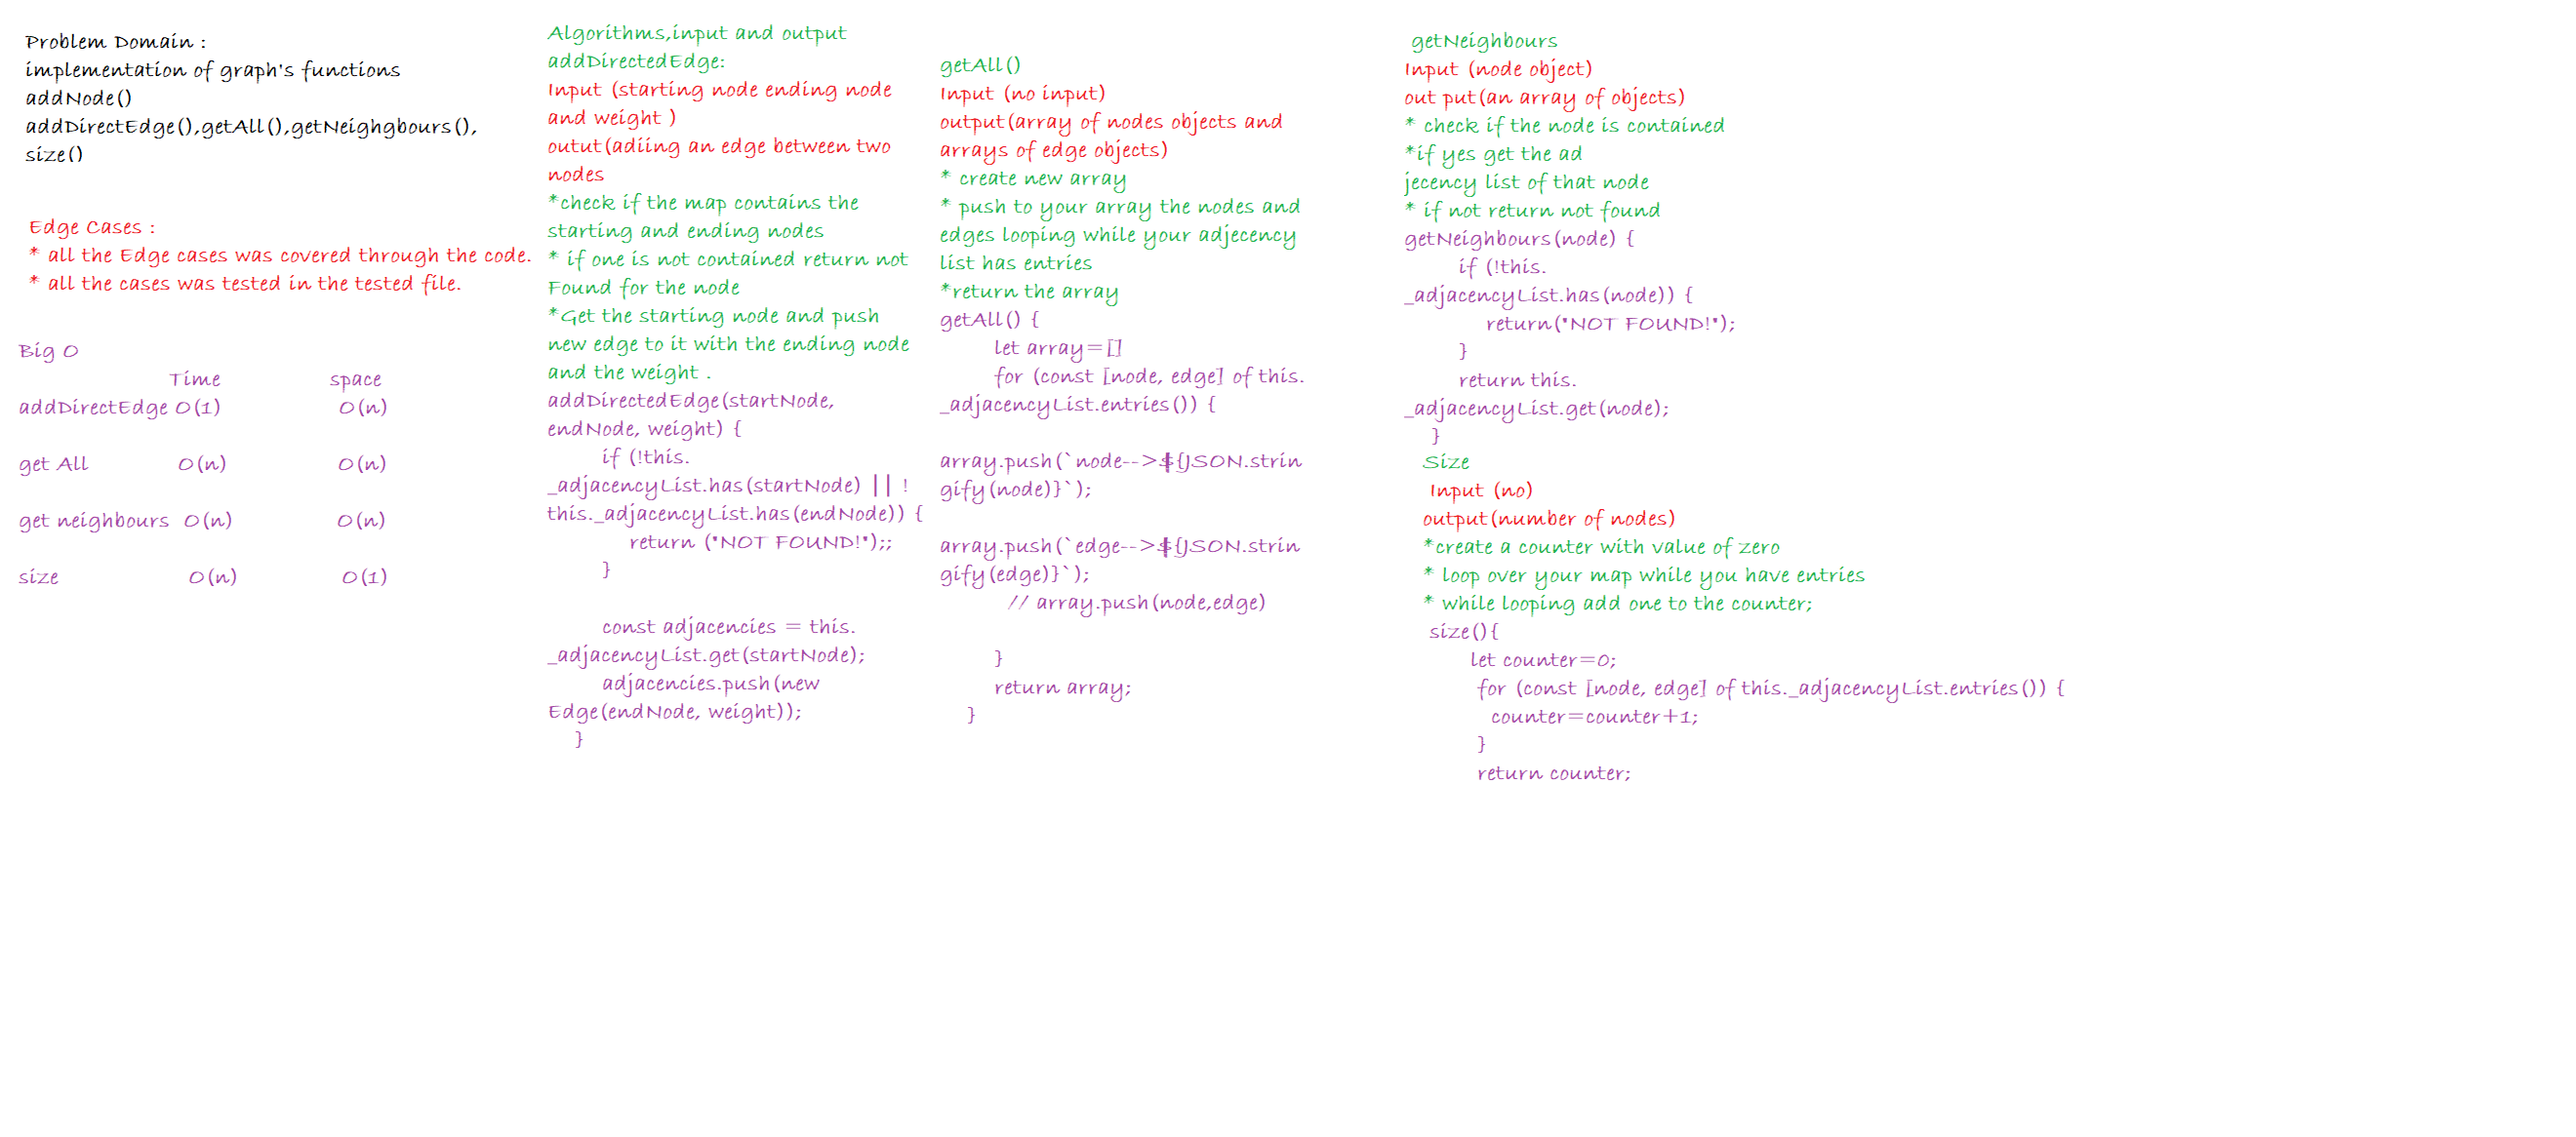
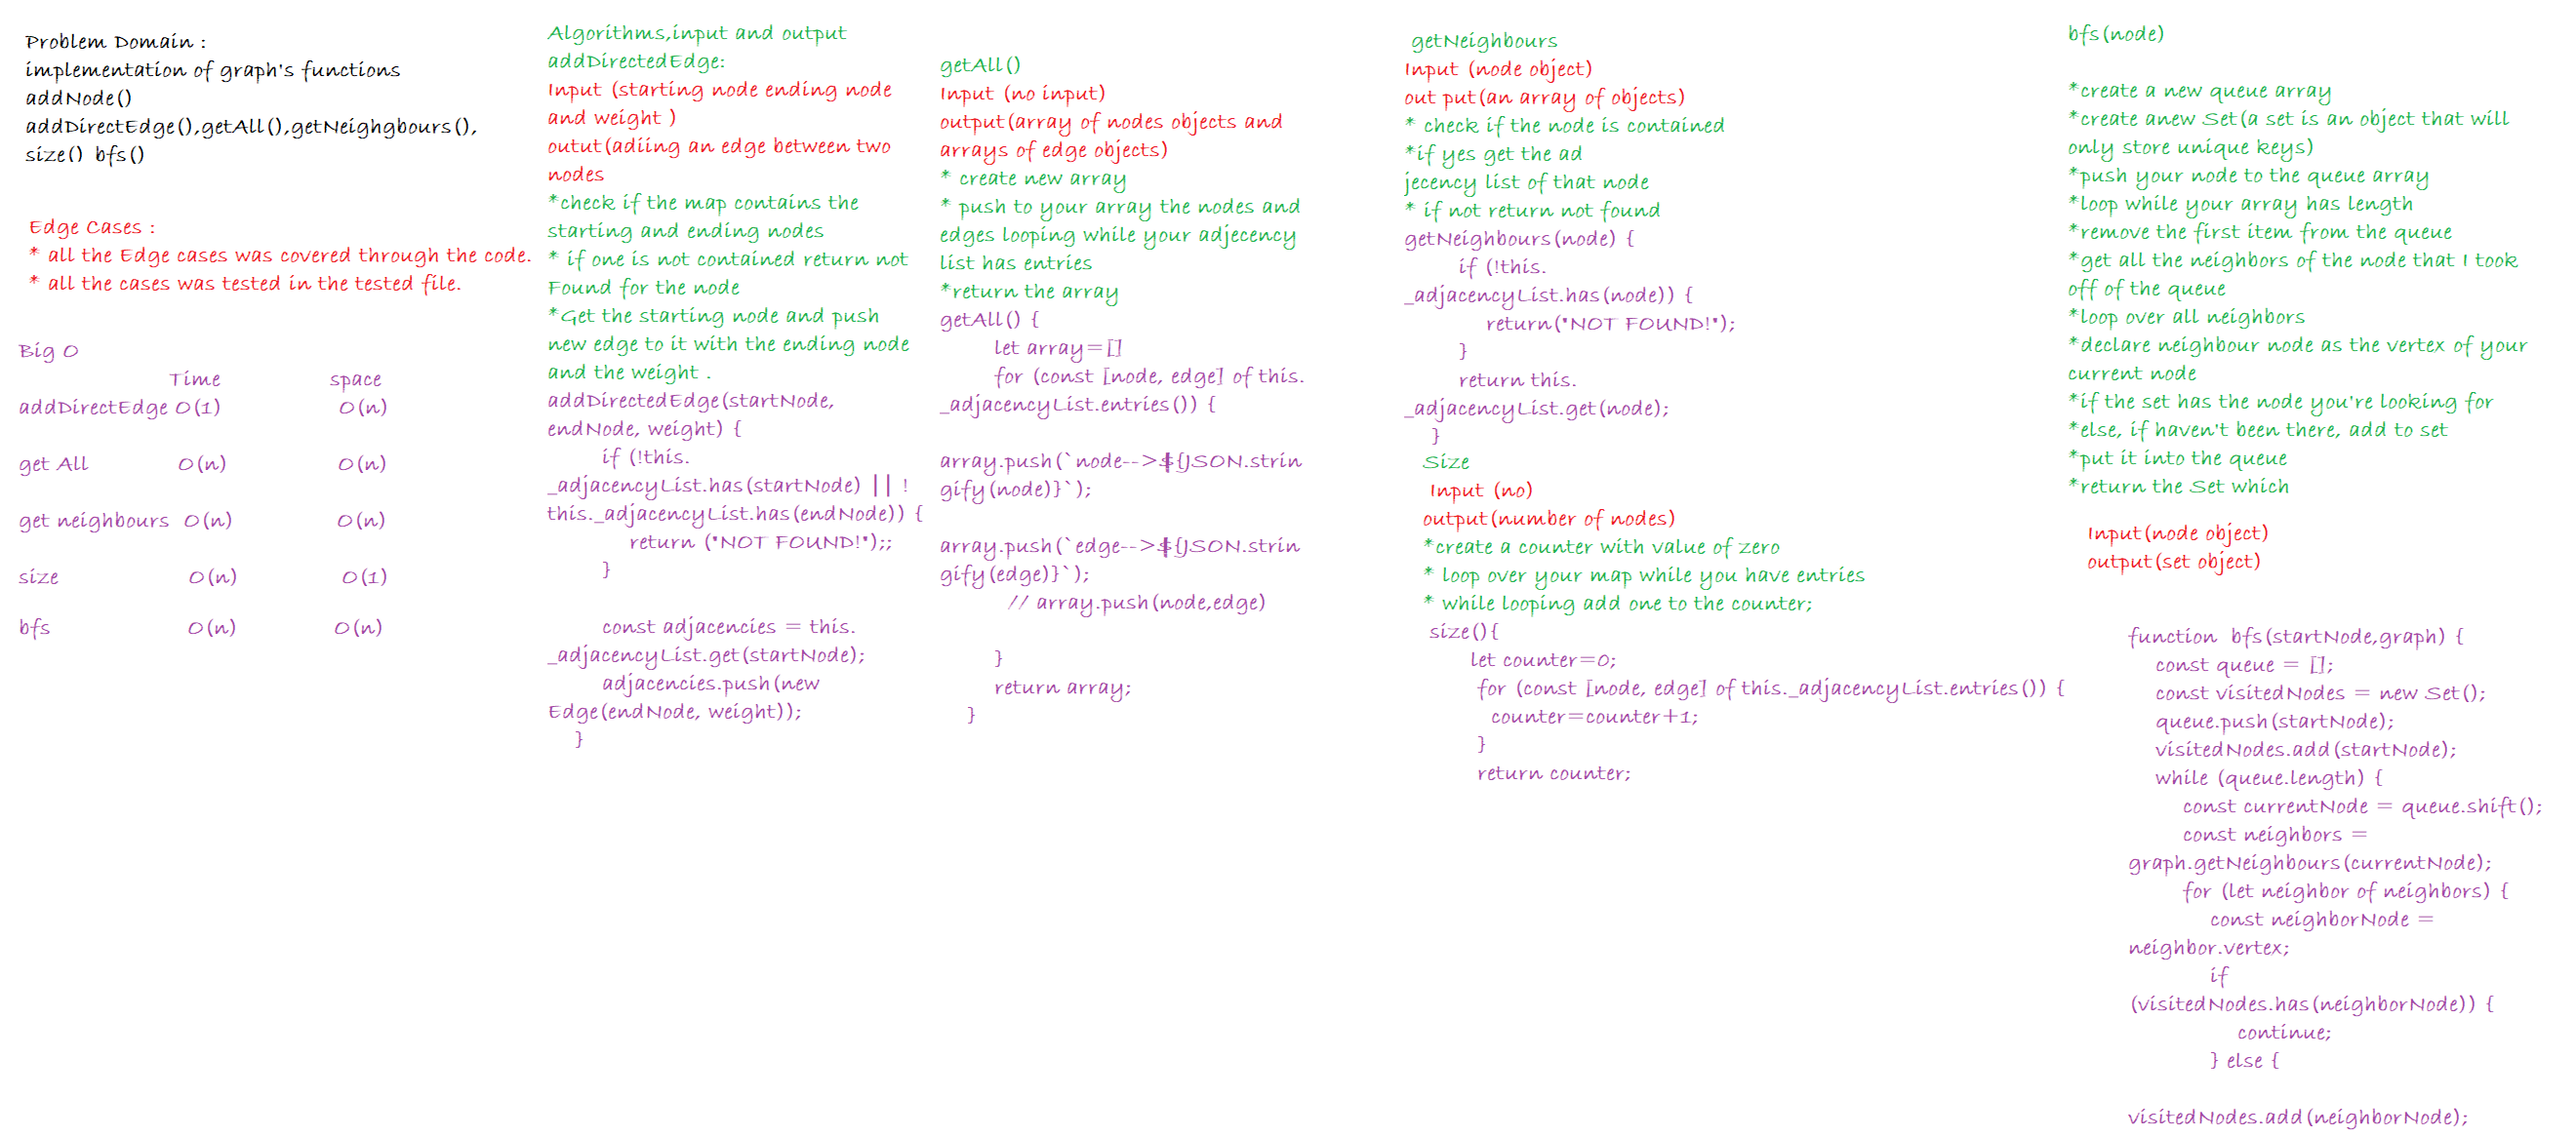
chal 36

diff --git a/__tests__/graph.test.js b/__tests__/graph.test.js
@@ -1,5 +1,5 @@
-const [Node,Graph]=require('../Data-structure/graph/graph');
-
+const [Node, Graph] = require('../Data-structure/graph/graph');
+const bfs = require('../Data-structure/graph/breadth-first-graph/breadth-first')
 const graph = new Graph();
 
 const two = new Node(2);
@@ -20,27 +20,36 @@ const eight = new Node(8);
 // graph.addDirectedEdge(eight, two);
 // graph.addDirectedEdge(three, six);
 
-describe('implementation of graphs',()=>{
-    it('add a node to the graph',()=>{
-      graph.addNode(two); 
-      expect(graph.size()).toEqual(1); 
-    });
-    it('add an edge successfuly and return a collection of all nodes as a list ',()=>{
-        graph.addNode(three);
-        graph.addDirectedEdge(two, three);
-        expect(graph.size()).toEqual(2); 
-        expect(graph.getAll()).toEqual(['node-->{"value":2}',
-        'edge-->[{"vertex":{"value":3}}]',
-        'node-->{"value":3}',
-        'edge-->[]'
+describe('implementation of graphs', () => {
+  it('add a node to the graph', () => {
+    graph.addNode(two);
+    expect(graph.size()).toEqual(1);
+  });
+  it('add an edge successfuly and return a collection of all nodes as a list ', () => {
+    graph.addNode(three);
+    graph.addDirectedEdge(two, three);
+    expect(graph.size()).toEqual(2);
+    expect(graph.getAll()).toEqual(['node-->{"value":2}',
+      'edge-->[{"vertex":{"value":3}}]',
+      'node-->{"value":3}',
+      'edge-->[]'
     ]);
-    });
-    it('retrives all the neighbors of a node ',()=>{
-      graph.addNode(six);
-      graph.addDirectedEdge(two, six);
-      expect(JSON.stringify(graph.getNeighbours(two))).toEqual('[{"vertex":{"value":3}},{"vertex":{"value":6}}]')
-    });
-    it ('will return the size of a graph',()=>{
-        expect(graph.size()).toEqual(3);
-    });
+  });
+  it('retrives all the neighbors of a node ', () => {
+    graph.addNode(six);
+    graph.addDirectedEdge(two, six);
+    expect(JSON.stringify(graph.getNeighbours(two))).toEqual('[{"vertex":{"value":3}},{"vertex":{"value":6}}]')
+  });
+  it('will return the size of a graph', () => {
+    expect(graph.size()).toEqual(3);
+  });
+  // it('will return the result of the bfs based on the node started', () => {
+  //   graph.addNode(seven);
+  //   graph.addNode(eight);
+  //   graph.addDirectedEdge(three, seven);
+  //   graph.addDirectedEdge(eight, two);
+  //   graph.addDirectedEdge(three, six);
+  //   expect(bfs(two,graph)).toEqual('Set {{"value": 2}, {"value": 3}, {"value": 6}, {"value": 7}}')
+
+  // });
 });

diff --git a/Data-structure/graph/breadth-first-graph/breadth-first.js b/Data-structure/graph/breadth-first-graph/breadth-first.js
@@ -1,0 +1,24 @@
+'use strict';
+
+function  bfs(startNode,graph) {
+    const queue = [];
+    const visitedNodes = new Set();
+    queue.push(startNode);
+    visitedNodes.add(startNode);
+    while (queue.length) {
+        const currentNode = queue.shift();
+        const neighbors = graph.getNeighbours(currentNode);
+        for (let neighbor of neighbors) {
+            const neighborNode = neighbor.vertex;
+            if (visitedNodes.has(neighborNode)) {
+                continue;
+            } else {
+                visitedNodes.add(neighborNode);
+            }
+            queue.push(neighborNode);
+        }
+    }
+    return visitedNodes;
+}
+
+module.exports=bfs;

diff --git a/Data-structure/graph/breadth-first-graph/README.md b/Data-structure/graph/breadth-first-graph/README.md
@@ -1,0 +1,32 @@
+# Breadth first
+This code  challenge is about adding another implementation method which is breadth-first method.
+
+## Challenge
+Implement your own Graph. The graph should be represented as an adjacency list, and should include the following methods:
+
+* AddNode()
+Adds a new node to the graph
+Takes in the value of that node
+Returns the added node
+* AddEdge()
+Adds a new edge between two nodes in the graph
+Include the ability to have a “weight”
+Takes in the two nodes to be connected by the edge
+Both nodes should already be in the Graph
+* GetNodes()
+Returns all of the nodes in the graph as a collection (set, list, or similar)
+* GetNeighbors()
+Returns a collection of edges connected to the given node
+Takes in a given node
+Include the weight of the connection in the returned collection
+* Size()
+Returns the total number of nodes in the graph
+* bfs()
+Extend your graph object with a breadth-first traversal method that accepts a starting node. Without utilizing any of the built-in methods available to your language, return a collection of nodes in the order they were visited. Display the collection.
+
+## Approach & Efficiency
+*Test:* 
+you can run (npm test graph.test.js)
+
+## API
+![hash](../assets/graphs.png)
